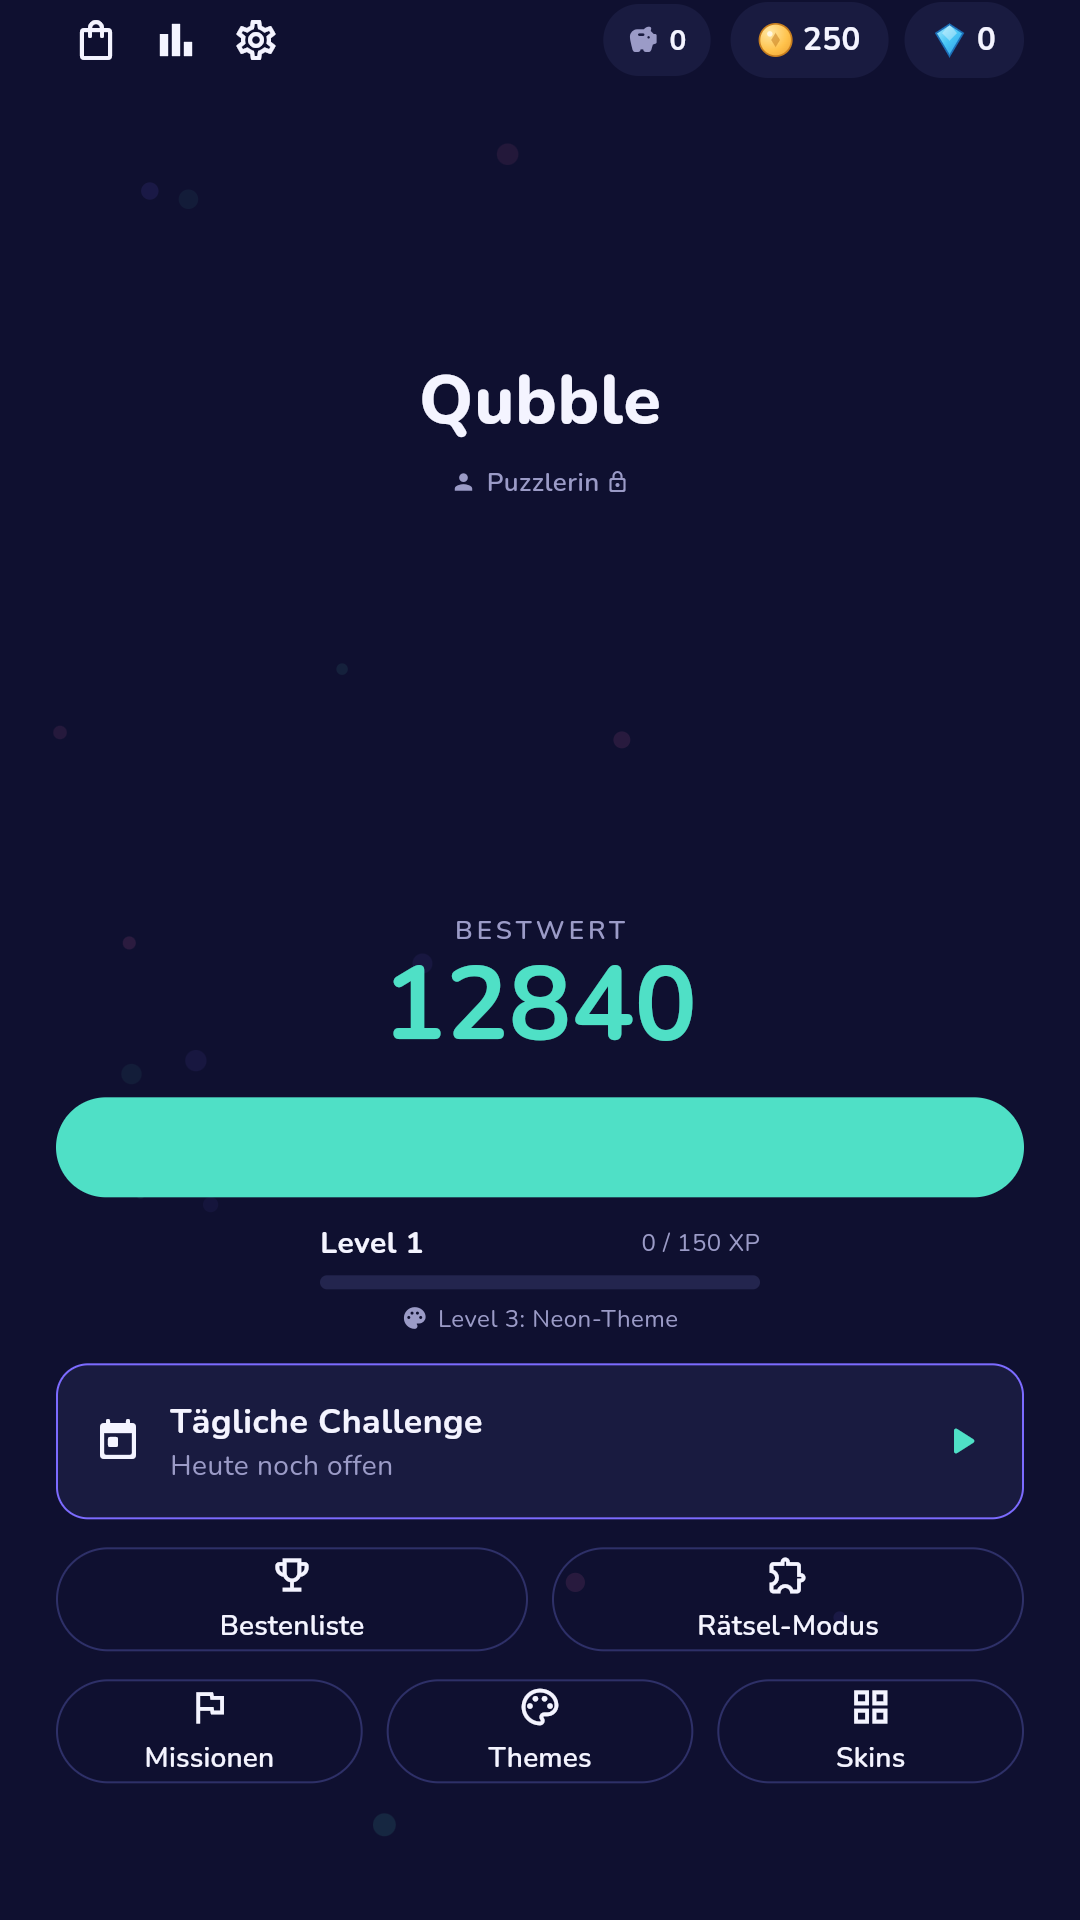
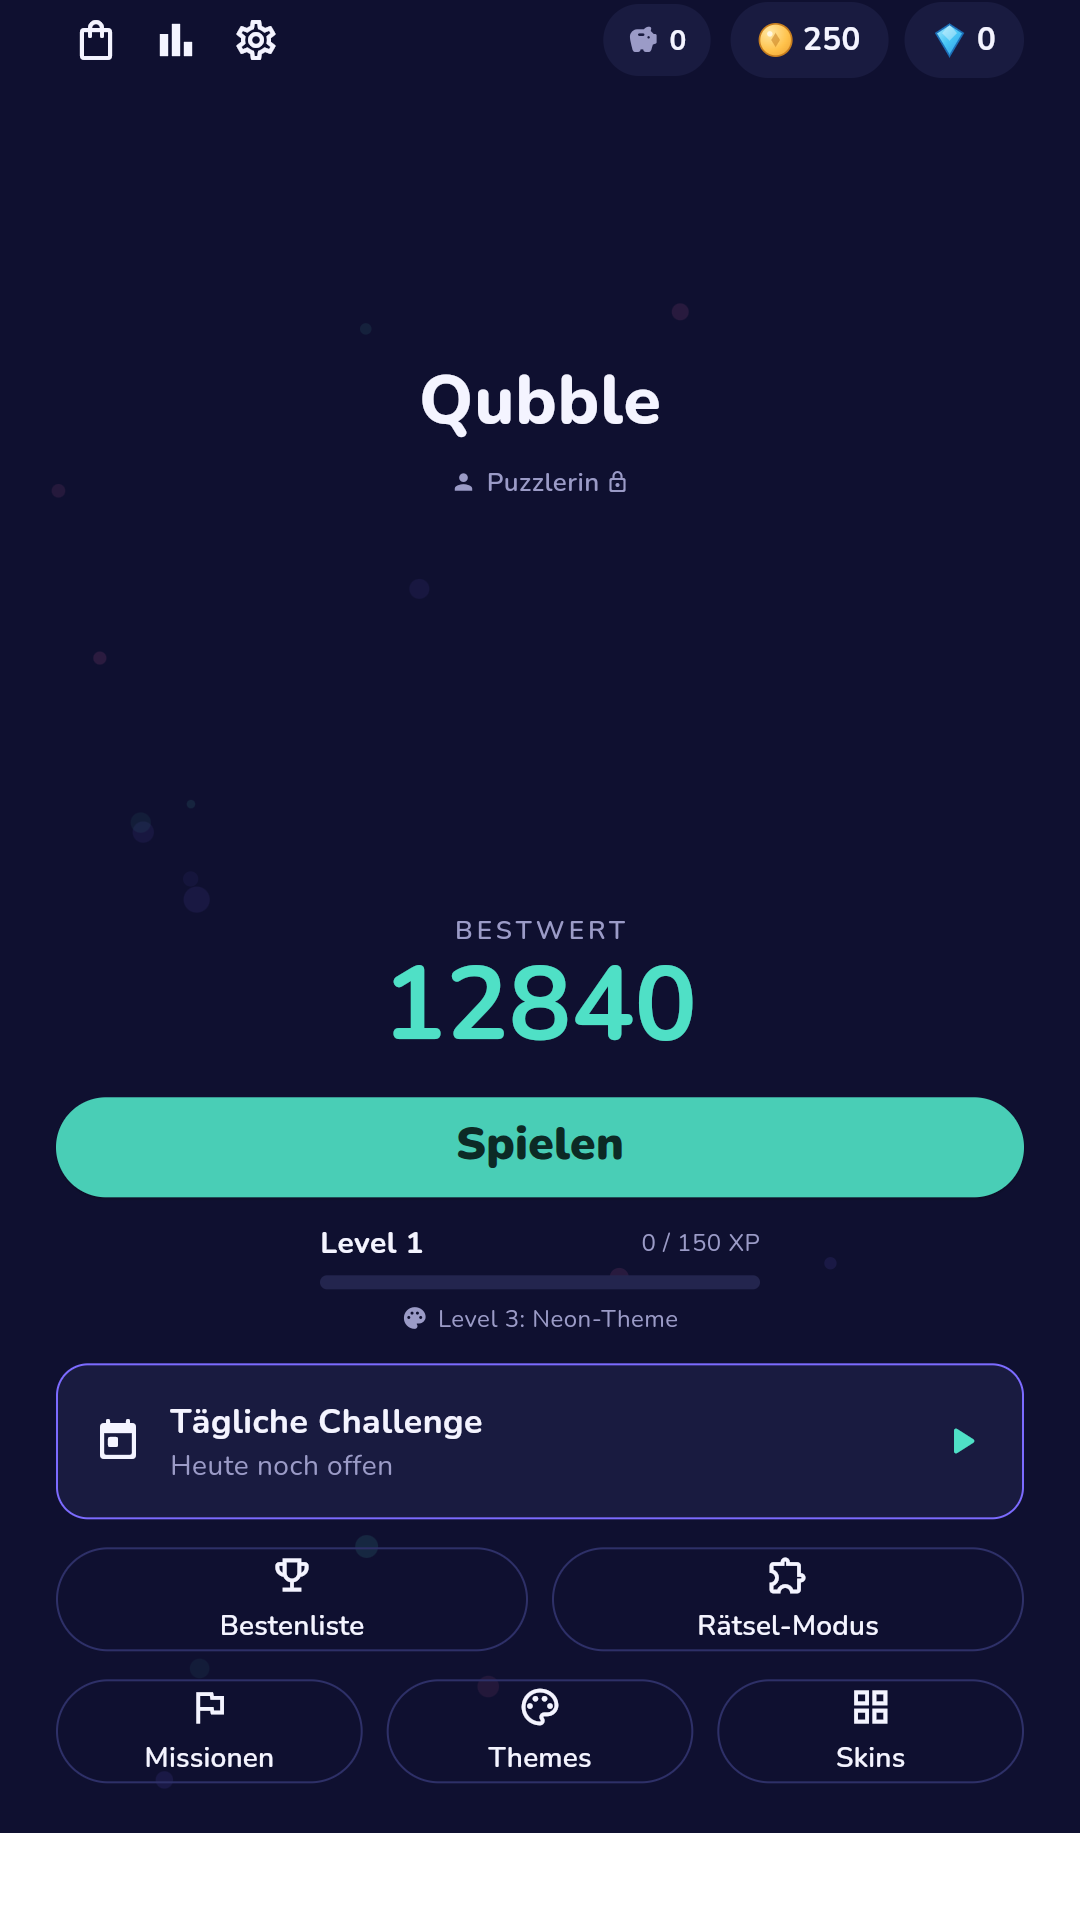
Rename GRIDPOP->Qubble in store copy; polish home screenshot
- STORE-LISTING.md: fix the stale "WARUM GRIDPOP?" / "WHY GRIDPOP?"
  headers in the DE and EN full descriptions (only user-facing leftovers
  of the rename; the internal Dart package stays `gridpop` by design).
- store-assets/screenshot-1-home.png: composite the real "Spielen"
  button label onto the home shot (the headless web renderer drops that
  one FilledButton label; the app itself labels it, home_screen.dart).
- LAUNCH.md: mark F4 done and drop the now-stale GRIDPOP note.

Claude-Session: https://claude.ai/code/session_01GPZTPXwn9i8q2Xg4mNRGCY

Changed region(s): [[0.0, 0.9375, 1.0, 1.0], [0.4278, 0.5625, 0.5806, 0.625], [0.5194, 0.8125, 0.55, 0.8438]]

diff --git a/docs/LAUNCH.md b/docs/LAUNCH.md
@@ -124,9 +124,6 @@ Texte **fertig** in `docs/STORE-LISTING.md` — nur kopieren:
 - **Screenshots** (min. 2, empfohlen bis 8, Portrait 1080×1920): ✅ vier Stück in
   `store-assets/` (Home, Gameplay, Themes, Missionen) — direkt hochladbar.
 
-> Hinweis: In der englischen Vollbeschreibung steht noch „WHY GRIDPOP?" (alter
-> Name). Vor dem Einfügen zu **Qubble** korrigieren — sag Bescheid, dann fixe ich
-> den Text im Repo.
 
 ---
 
@@ -192,7 +189,7 @@ bezahlte Dienste (~15–30 €, z. B. testerscommunity.com / primetestlab.com / 
   live-fähig. Erst danach mergen/veröffentlichen.
 - **F3 · Screenshots + Feature-Grafik:** ✅ in `store-assets/` (Feature-Grafik +
   4 Screenshots). Weitere Motive (Combo-Fieber, Bestenliste) bei Bedarf nachlegbar.
-- **F4 · Store-Text „GRIDPOP" → „Qubble"** in der EN-Vollbeschreibung fixen.
+- **F4 · Store-Text „GRIDPOP" → „Qubble"**: ✅ in DE- und EN-Vollbeschreibung korrigiert.
 - **F5 · Versionsnummer:** Vor jedem neuen Upload `version:` in `pubspec.yaml`
   erhöhen (der Teil nach `+` muss steigen).
 

diff --git a/docs/STORE-LISTING.md b/docs/STORE-LISTING.md
@@ -52,7 +52,7 @@ Ziehe Blöcke auf das 8×8-Gitter, fülle Reihen und Spalten und lass sie mit
 einem befriedigenden Pop verschwinden. Einfach zu lernen, schwer zu meistern –
 genau richtig für zwischendurch und für lange Highscore-Jagden.
 
-WARUM GRIDPOP?
+WARUM QUBBLE?
 • Kinderleichter Einstieg, endlose Tiefe
 • Combo-Fieber: Verkettete Clears lassen den Bildschirm glühen und den
   Punkte-Multiplikator explodieren
@@ -80,7 +80,7 @@ Drag blocks onto the 8×8 grid, fill rows and columns, and watch them vanish
 with a satisfying pop. Easy to learn, hard to master — perfect for a quick
 break or a long high-score run.
 
-WHY GRIDPOP?
+WHY QUBBLE?
 • Pick-up-and-play simple, endlessly deep
 • Combo Fever: chained clears make the screen glow and your score multiplier
   explode